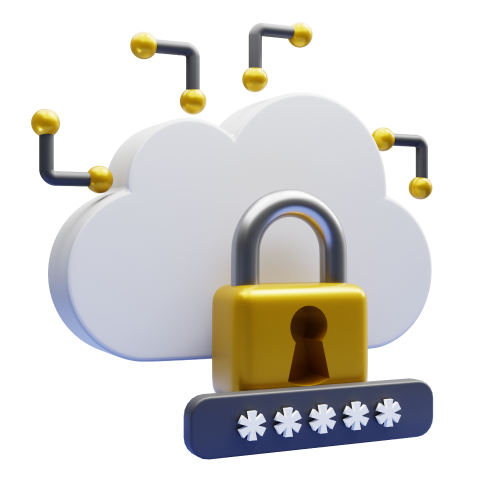
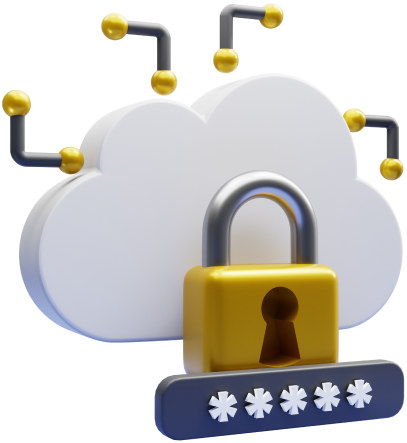
Add files via upload

diff --git a/css/style.css b/css/style.css
@@ -105,7 +105,7 @@ ul li {
 
 .ticket__wrap {
 /*    background: url(../img/main-img.png) left/ 700px 400px no-repeat, #1B3F5A;*/
-    
+    background: #1B3F5A;
     border: 2px solid rgba(218, 218, 218, 0.15);
     box-shadow: 0px 4px 87px -25px rgba(0, 0, 0, 0.15);
     border-radius: 34px;
@@ -145,7 +145,8 @@ ul li {
     line-height: 14px;
 }
 
-.order-service-btn {
+.order-service-btn,
+.ticket__cta-input {
     display: inline-flex;
     justify-content: center;
     align-items: center;
@@ -157,7 +158,7 @@ ul li {
     text-decoration: none;
 }
 
-.ticket__img-column img {
+.main-sctn .ticket__img-column img {
     max-width: 888px;
     width: 130%;
     top: -12px;
@@ -243,6 +244,58 @@ ul li {
 .newsletter-sbscrptn .ticket__img-column {
     height: auto;
 }
+
+.newsletter-sbscrptn .ticket__img-column img {
+    max-width: 406px;
+    width: 100%;
+    top: -46px;
+    /* height: 120%; */
+    right: 205px;
+    display: block;
+}
+
+.newsletter-sbscrptn .ticket__txt-column p {
+    font-family: 'Muller Next Trial', sans-serif;
+    line-height: 140%;
+    color: #FFFFFF;
+    opacity: 0.5;
+    font-size: 20px;
+    line-height: 140%;
+}
+
+.ticket__cta {
+    display: flex;
+    align-items: center;
+    justify-content: space-between;
+    background: #FFFFFF;
+    border-radius: 48px;
+    padding: 3px;
+    margin-top: 40px;
+}
+
+.ticket__cta .ticket__cta-input {
+    padding-left:30px;
+    font-size:  24px;
+}
+
+.ticket__cta .ticket__cta-input::placeholder {
+    font-family: 'Muller Next Trial', sans-serif;
+    font-size:  24px;
+    color: #0D192A;
+    opacity: 0.5;
+}
+
+.ticket__cta .ticket__cta-input:focus {
+    outline: none;
+}
+
+.ticket__cta .order-service-btn {
+    background: #1B3F5A;
+    color: #FFFFFF;
+    font-family: 'Muller Next Trial', sans-serif;
+    font-size: 14px;
+}
+
 
 
 
@@ -437,6 +490,7 @@ ul li {
     margin-top:  100px;
     justify-content: space-between;
     align-items: center;
+    flex-wrap: wrap;
     width: 100%;    
 }
 
@@ -506,9 +560,15 @@ ul li {
     }
 
     .ticket__txt-column h1, 
-    .ticket__txt-column h2 {
+    .ticket__txt-column h2,
+    .logo-slider__heading,
+    .form__title {
         font-size: 22px;
         margin-top: 18px;
+    }
+
+    .ticket__txt-content {
+        width: 100%;    
     }
 
     .main-sctn .ticket__txt-content h1, 
@@ -520,14 +580,29 @@ ul li {
     .newsletter-sbscrptn .ticket__txt-column h2 {
         max-width: 175px;
     }
-
-    .ticket__txt-content p {
+    .main-sctn .ticket__txt-content p,
+    .newsletter-sbscrptn .ticket__txt-content p {
         font-size: 12px;
     }
 
+    .main-sctn .ticket__img-column img,
     .ticket__img-column img {
         width: 100%;
         height: auto;
+    }
+
+    .order-service-btn, 
+    .ticket__cta-input {
+        height: 48px;   
+        font-size: 12px;
+    }
+
+    .ticket__cta .ticket__cta-input {
+        width: 100%;    
+    }
+
+    .ticket__cta .ticket__cta-input::placeholder {
+        font-size:  12px;
     }
 
     .text-blocks p {
@@ -542,20 +617,53 @@ ul li {
     
 }
 
+@media only screen and (max-width: 600px) {
+
+    .footer__whatsapp-btn {
+        display: none;
+    }
+
+    .footer__bottom {
+        flex-direction: column;
+        flex-wrap: wrap;
+        align-items: flex-start;
+    }
+
+    .footer__bottom .col-auto:nth-of-type(1) {
+        order: 3;
+    }
+    .footer__bottom .col-auto:nth-of-type(2) {
+        order: 2;
+    }
+    .footer__bottom .col-auto:nth-of-type(3) {
+        order: 1;
+        margin-bottom: 145px;
+    }
+    .footer__bottom-icons img {
+        margin-left: 0;
+        margin-right: 20px;
+    }
+
+}
+
 
 @media only screen and (min-width: 992px) {
 
     .ticket__wrap {
-        background: #1B3F5A;
+/*        background: #1B3F5A;*/
     }
 
     .ticket__txt-column {
     }
 
-    .ticket__txt-column p {
+    .main-sctn .ticket__txt-column p {
         white-space: nowrap;
         width: 100%;
         font-size:  14px;
+    }
+
+    .newsletter-sbscrptn .ticket__txt-column p {
+
     }
 
     /* .ticket__img-column img {
@@ -599,7 +707,7 @@ ul li {
 
 @media only screen and (min-width: 992px) and (max-width: 1366px) {
 
-    .ticket__txt-column p {
+    .main-sctn .ticket__txt-column p {
         max-width:  80%;
     }
     
@@ -607,7 +715,7 @@ ul li {
 
 @media only screen and (min-width: 992px) and (max-width: 1440px) {
 
-    .ticket__txt-column p {
+    .main-sctn .ticket__txt-column p {
         white-space: normal;
     }
     .ticket__img-column img {

diff --git a/index.html b/index.html
@@ -176,7 +176,10 @@
 						<div class="ticket__txt-content">
 							<h2>Подпишитесь на рассылку</h2>
 							<p>Чтобы узнавать о новых предложениях</p>
-							<a href="#" class="order-service-btn">Заказать услугу</a>
+							<div class="ticket__cta">
+								<input type="text" placeholder="Email" class="ticket__cta-input">
+								<a href="#" class="order-service-btn">Отправить</a>
+							</div>
 						</div>
 					</div>
 					<div class="col-12 col-sm-9 col-lg-6 col-xl-5 ticket__img-column">
